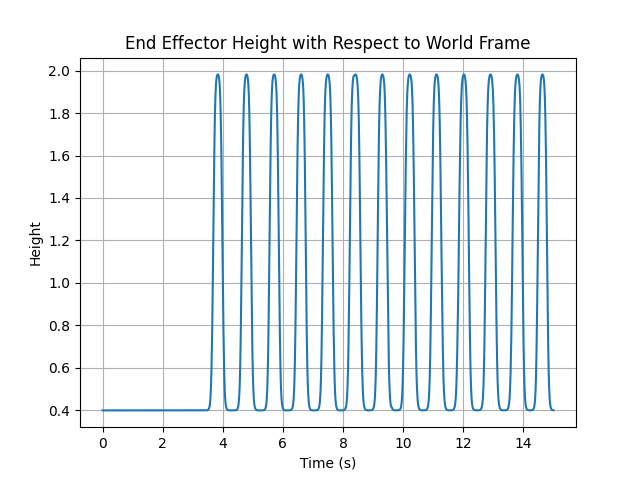
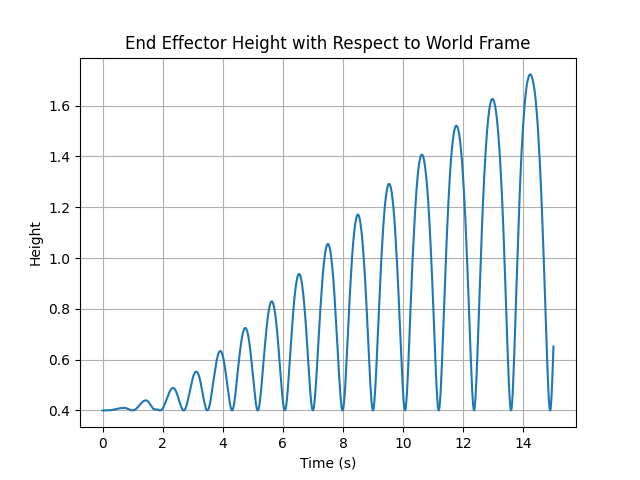
P3P4 Fix

diff --git a/Problems_3.py b/Problems_3.py
@@ -3,6 +3,7 @@ import mujoco as mj
 import mujoco.viewer
 import os
 from math import pi
+from spatialmath.base import skew, tr2angvec
 
 xml_path = "Furuta_Model.xml"
 dirname = os.path.dirname(__file__)
@@ -37,7 +38,8 @@ print("Position Vector")
 print(data.xpos[body3_id])
 
 print("\n Rotation Matrix")
-print(np.reshape(data.xmat[body3_id], (3,3)).round(4))
+rot_1a = np.reshape(data.xmat[body3_id], (3,3)).round(4)
+print(rot_1a)
 
 print("\n Quaternion")
 print(data.xquat[body3_id])
@@ -52,10 +54,22 @@ print("Position Vector")
 print(data.xpos[body2_id])
 
 print("\n Rotation Matrix")
-print(np.reshape(data.xmat[body2_id], (3,3)).round(4))
+rot_1b = np.reshape(data.xmat[body2_id], (3,3)).round(4)
+print(rot_1b)
 
 print("\n Quaternion")
 print(data.xquat[body2_id])
+
+#******1C Verification******
+print("\n Problem 1C part A verification with Mujoco")
+print("*************************************************")
+print("Axis Angle Representation of part A (angle, vector)")
+print(tr2angvec(rot_1a))
+
+print("\n Problem 1C part B verification with Mujoco")
+print("*************************************************")
+print("Axis Angle Representation of part B (angle, vector)")
+print(tr2angvec(rot_1b))
 
 #******1D Verification******
 #Solution 1
@@ -138,14 +152,27 @@ print("*************************************************")
 print("End Effector Body Twist (v,omega)")
 print(twists_2AB[0])
 print("\nEnd Effector Spatial Twist (v,omega)")
-print(twists_2AB[1])
+#Spatial twist = -omega @ xpos + framelinvel
+spatial_omega_2A = twists_2AB[1][3:6]
+skew_spatial_omega_2A =skew(spatial_omega_2A)
+xpos_2A = data.xpos[body3_id]
+framelinvel_2A = twists_2AB[1][0:3]
+spatial_linvel_2A = -(skew_spatial_omega_2A @ xpos_2A) + framelinvel_2A
+
+print(np.append(spatial_linvel_2A, spatial_omega_2A).round(4))
 
 print("\n Problem 2B verification with Mujoco")
 print("*************************************************")
 print("Frame 2 Body Twist (v,omega)")
 print(twists_2AB[2])
 print("\nFrame 2 Spatial Twist (v,omega)")
-print(twists_2AB[3])
+spatial_omega_2B = twists_2AB[3][3:6]
+skew_spatial_omega_2B =skew(spatial_omega_2B)
+xpos_2B = data.xpos[body2_id]
+framelinvel_2B = twists_2AB[3][0:3]
+spatial_linvel_2B = -(skew_spatial_omega_2B @ xpos_2B) + framelinvel_2B
+
+print(np.append(spatial_linvel_2B, spatial_omega_2B).round(4))
 
 
 #******2C Verification******
@@ -176,4 +203,10 @@ twists_2D = np.array(np.reshape(data.sensordata.copy(), (-1,6))).round(4)
 print("\n Problem 2D verification with Mujoco")
 print("*************************************************")
 print("End Effector Spatial Twist (v,omega)")
-print(twists_2D[1])
+spatial_omega_2D = twists_2D[1][3:6]
+skew_spatial_omega_2D =skew(spatial_omega_2D)
+xpos_2D = data.xpos[body3_id]
+framelinvel_2D = twists_2D[1][0:3]
+spatial_linvel_2D = -(skew_spatial_omega_2D @ xpos_2D) + framelinvel_2D
+
+print(np.append(spatial_linvel_2D, spatial_omega_2D).round(4))

diff --git a/Problem_4.py b/Problem_4.py
@@ -25,7 +25,7 @@ data = mj.MjData(model)
 
 sim_time = 15.0 #15 second simulation time
 start_time = time.time()
-actuator_id = mj.mj_name2id(model, mj.mjtObj.mjOBJ_ACTUATOR, "joint1actuator")
+actuator_id = mj.mj_name2id(model, mj.mjtObj.mjOBJ_ACTUATOR, "joint1motor")
 body3_id = mj.mj_name2id(model, mj.mjtObj.mjOBJ_BODY, "body3")
 body1_id = mj.mj_name2id(model, mj.mjtObj.mjOBJ_BODY, "body1")
 
